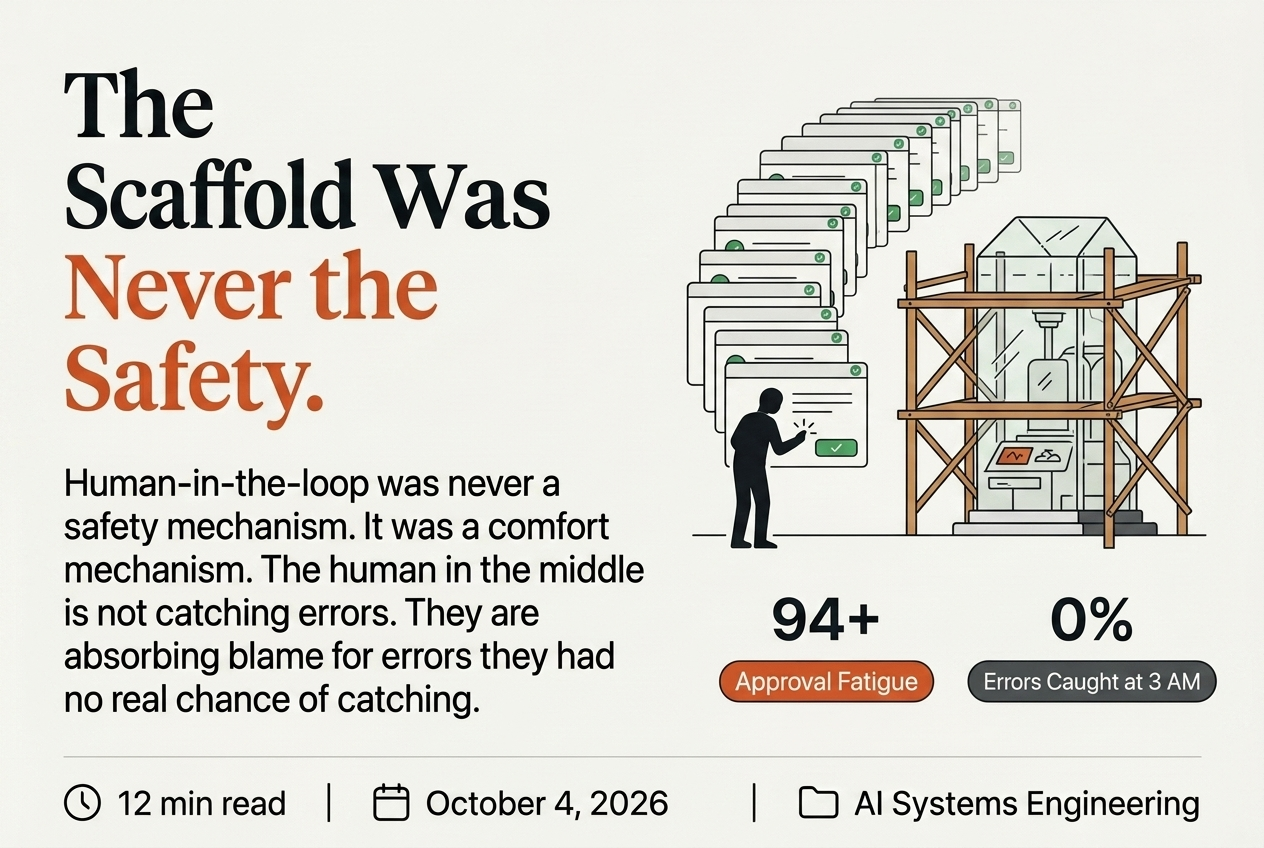
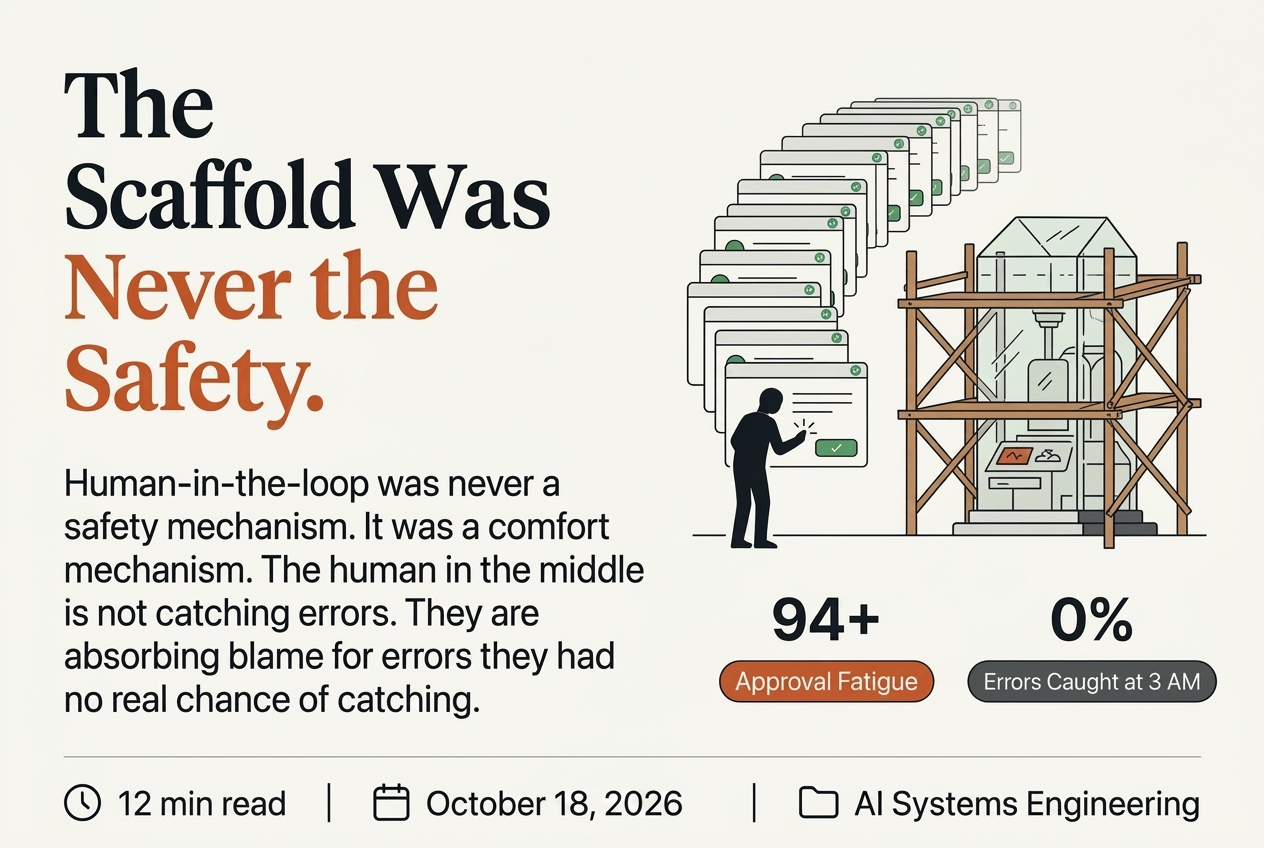
next post added

diff --git a/src/utils/posts.ts b/src/utils/posts.ts
@@ -4,13 +4,30 @@ import { getCollection, type CollectionEntry } from "astro:content";
  * Determines whether a post should be included in the build.
  * In development (import.meta.env.DEV), allows previewing future-dated posts.
  * In production (import.meta.env.PROD), filters out drafts and future-dated posts.
+ *
+ * Comparison uses calendar date only (not time-of-day) so that a post dated
+ * e.g. "2026-09-20 09:00:00 -0400" is included by the 12:17 UTC daily cron
+ * on Sep 20 regardless of the UTC offset in the frontmatter.
  */
 export function isPostPublished(post: CollectionEntry<"posts">): boolean {
   if (post.data.draft) return false;
   if (import.meta.env.PROD) {
     const postDate = new Date(post.data.date);
     const now = new Date();
-    if (postDate > now) {
+    // Compare calendar dates only — strip time component from both sides
+    // so a post whose frontmatter hour exceeds the cron time in UTC still
+    // publishes on the correct day rather than slipping to the next run.
+    const postDay = new Date(
+      postDate.getUTCFullYear(),
+      postDate.getUTCMonth(),
+      postDate.getUTCDate()
+    );
+    const today = new Date(
+      now.getUTCFullYear(),
+      now.getUTCMonth(),
+      now.getUTCDate()
+    );
+    if (postDay > today) {
       return false;
     }
   }

diff --git a/src/content/posts/2026-10-04-you-are-measuring-the-wrong-thing.md b/src/content/posts/2026-10-04-you-are-measuring-the-wrong-thing.md
@@ -1,0 +1,189 @@
+---
+title: "You Are Measuring the Wrong Thing."
+date: 2026-10-04 09:00:00 -0400
+reading_time: 12
+categories: AI systems engineering
+tags: [Token Economics, AI Governance, Agent Loops & Control, Production Systems]
+author: Karim Bhalwani
+excerpt: "Every team tracking AI spend is watching the same number: tokens consumed. It is the wrong number. The right number is cost per successful outcome, and almost nobody has it."
+topics: [token-economics, ai-governance, agent-harness]
+---
+
+![You Are Measuring the Wrong Thing.](/assets/you-are-measuring-the-wrong-thing/hero-main.png)
+
+A finance team pulls up the monthly AI invoice. A hundred and twenty million tokens. $38,000. Someone calls it high. Someone else says the team shipped three features and closed 4,000 support tickets. The meeting ends without agreement, because nobody in the room has a number that connects those two facts.
+
+The token counter tells you what you spent. It says nothing about whether you got anything for it.
+
+Hold that gap. We are coming back to it.
+
+---
+
+In [Route the Intelligence](/writing/2026-05-10-route-the-intelligence), I wrote about the cost of sending every task to the wrong model tier. In [You Don't Maximize Tokens, You Maximize Learning](/writing/2026-08-05-token-maxing-learning), I argued that raw token volume teaches you nothing useful about whether the spend was worth it. Both posts circled the same problem without naming it directly.
+
+The problem is this: the metric everyone is tracking is not the metric that matters.
+
+---
+
+## The Number That Feels Like Progress
+
+Token consumption is easy to count. Providers display it on every invoice. Teams build dashboards around it. Executives ask about it in quarterly reviews.
+
+It has one fatal flaw. It measures activity. Not value.
+
+A team that burns 40 million tokens deploying a reliable agent that resolves 90% of incoming support cases is getting enormous value. A team that burns 40 million tokens deploying an agent that loops through failures, hits self-correction cycles on 60% of tasks, and generates $1.80 of output for every $3.00 of inference spend is losing money with extra steps. The invoice looks identical. The business outcome is not even close.
+
+The metric that matters is cost per successful task. How much did it cost, in total inference spend, to produce one verified, useful output? Not cost per million tokens. Not cost per API call. Cost per resolved support ticket. Cost per merged pull request. Cost per approved contract draft.
+
+That number connects the invoice to the outcome. Without it, you are reading a gas gauge and calling it a trip report.
+
+**Token volume tells you how much fuel you burned. It does not tell you whether you reached the destination.**
+
+![Activity vs. Value: The invoice gap](/assets/you-are-measuring-the-wrong-thing/activity-vs-value.png)
+
+---
+
+## Why Cheaper Tokens Do Not Mean Lower Costs
+
+This is where most architectural decisions go wrong, and it is worth stating precisely.
+
+An agent running on a model priced at $1.00 per million input tokens sounds cheaper than one running at $3.00. In a single-turn interaction, that math is straightforward. In an autonomous execution loop, it is not.
+
+Here is what happens in a real agentic session. The agent receives a task. It reasons. It calls a tool. The tool returns a result. The agent incorporates that result, reasons again, calls another tool. This repeats until the task is done, or until something breaks.
+
+The critical detail: standard completion APIs are stateless. Every turn, the agent re-submits everything that happened before. The system instructions. The full conversation. Every tool call. Every tool result. Every intermediate reasoning step. The context does not carry over. It is retransmitted, from scratch, on each round trip.
+
+In a ten-turn session, you pay for the first exchange ten times. In a thirty-turn session, you pay for the early context thirty times. The token load does not grow linearly. It compounds. By turn thirty, a session carrying a modest 10,000-token base context and an average of 1,500 tokens of new material per turn is processing nearly 900,000 cumulative input tokens. That is eighty times what a single-turn interaction would cost on the same content.
+
+A cheaper model running more turns to reach the same outcome costs more. Not less.
+
+**The agentic multiplier does not care about sticker price. It compounds whatever you put in front of it.**
+
+![The Agentic Multiplier: quadratic context compounding across turns](/assets/you-are-measuring-the-wrong-thing/agentic-multiplier.png)
+
+---
+
+## The Tax You Did Not See Coming
+
+There is a second cost buried inside every agent session, and it comes in three forms. Most teams have measured none of them.
+
+**The MCP Tax: tool schema injection.** When an agent initializes, it receives definitions for every tool it might use—function names, parameter types, descriptions, validation schemas. These get injected into the context on every single turn. Not once. Every turn.
+
+A basic tool server might add 1,000 tokens to each call. A cloud database integration with 40 methods can add 12,000. An enterprise environment running four or five connected services simultaneously carries between 15,000 and 55,000 tokens of tool definition overhead per turn, before any user query or task context is included. In large enterprise catalogs with 100-plus tools, the payload has been measured above 54,000 tokens per turn.
+
+Put numbers on it. An agent handling a 20-turn support workflow, carrying a 15,000-token tool payload, processes 300,000 tokens of API documentation on a single ticket. Tokens describing function signatures the model may never invoke. At production rates, that overhead alone costs roughly $0.90 per ticket. At 100,000 monthly tickets, you have paid $90,000 to repeatedly transmit your tool catalog. The mitigation exists: progressive tool disclosure loads schemas on demand, and sandboxed code execution reduces the schema payload by over 95%. Red Hat's production benchmarks showed a 53% total token reduction by switching from full schema injection to a sandboxed Python model.
+
+**The Skills Tax: instruction payload overhead.** Skills—the structured instruction files that give an agent its persona, its procedures, and its domain knowledge—solve a real problem. They encode expertise so it does not have to live in a developer's head. But they carry a cost that most teams never account for separately.
+
+A skill file describing a support triage procedure might run 2,000 tokens. A coding agent loaded with five active skills—security review, test writing, documentation, code style, and escalation procedures—carries 8,000 to 15,000 tokens of instruction payload before any task content appears. Multiplied across a 30-turn session, that static overhead processes between 240,000 and 450,000 tokens that describe what the agent should do, not what it is actually doing. In [Stop Renting the Intelligence](/writing/2026-07-19-stop-renting-the-intelligence), the architecture that compounds correctly is the one that bakes context into weights rather than re-sending it on every call. Skills injected as prompt text are the re-sending model. Skills encoded as fine-tuned adapters are the ownership model. The token math is different.
+
+**The Tool Result Tax: verbose environmental payloads.** Every time an agent calls a tool, the result comes back into the context. A database query returning a formatted 200-row result set. A terminal command producing 3,000 lines of build log. A web fetch returning full HTML before the relevant two sentences are extracted. These are not errors. They are how most tools behave by default, and every one of those tokens re-transmits on the next turn.
+
+Compressing tool results—extracting only what the model needs before passing it back into context—is one of the highest-leverage optimizations available. It does not require switching models. It does not require architectural changes. It requires measuring what tool results actually cost and deciding what the model actually needs to see.
+
+Taken together, MCP schemas, skill payloads, and tool result verbosity are a hidden tax that compounds with every turn. In production agentic systems, this overhead regularly accounts for 40 to 70 percent of total token consumption on a given session. The model spend on actual reasoning is often the minority of the bill.
+
+**You cannot optimize what you have not measured. Most teams have never separated the tax from the work.**
+
+---
+
+## The Real Benchmark Is Not the One You Think
+
+Software engineering benchmarks have become the clearest available window into what cost per successful task actually looks like in practice.
+
+On SWE-bench, a standard evaluation where agents attempt to resolve real GitHub issues by generating patches that pass hidden test suites, the data tells a consistent story. Success rate matters far more than token price.
+
+Early agent configurations on GPT-4 resolved less than 1% of tasks. Each attempt cost around $0.24. The effective cost per resolved issue, accounting for the failures, was over $30. A simpler architecture at $0.05 per attempt delivered a lower cost per fix, not because it was smarter, but because it failed less catastrophically.
+
+Current frontier configurations tell a different story. Agents achieving 75 to 80% solve rates spend between $0.07 and $0.75 per attempt, yielding $0.09 to $1.00 per resolved task. The model priced at half the per-token rate does not automatically win. If it loops through more self-correction cycles to reach a working patch, its effective cost per resolved output climbs past the more expensive model that solved it in fewer turns.
+
+This is the trap: optimizing for the rate card without measuring the resolution rate. The cheapest token is not the cheapest outcome.
+
+METR's Expenditure Horizon adds a harder constraint. Across open-ended machine learning optimization tasks, autonomous agents are cost-effective at low budgets. Below a few hundred dollars, agents implement improvements efficiently. Beyond $600 to $3,300 in total spend, the returns flatten. Human researchers become more cost-effective. The L-shaped curve appears consistently across model families and task types. Spending more does not produce proportionally more. At some point, it produces almost nothing.
+
+The expenditure horizon is not a criticism of AI capability. It is a boundary condition that every team allocating budget to autonomous systems should have mapped for their own workloads.
+
+**Cost per successful task. Resolution rate. Expenditure horizon. These are the numbers that govern whether an agent is worth running.**
+
+---
+
+## Why 42% of Projects Stall
+
+Gartner forecast that at least 30% of generative AI projects would be abandoned after the proof-of-concept phase. S&P Global's enterprise data put that number at 42%, up from 17% the prior year. McKinsey found that while 88% of organizations were using AI in at least one function, only 39% could connect any of it to a measurable impact on earnings.
+
+The gap between proof of concept and production is not a capability gap. The models are capable. The gap is measurement.
+
+A proof of concept runs on enthusiasm and demo conditions. The agent resolves the scenario it was built to resolve. It looks compelling. The business case is written around what it could do if scaled.
+
+Then it goes to production. It encounters data it was not tested on. Edge cases accumulate. The token bill arrives. Finance asks for ROI. Nobody has a cost per successful outcome to share, because nobody built the instrumentation to measure it. The project stalls not because the technology failed, but because the organization cannot answer the question the CFO is asking.
+
+A team that can say "our support agent resolves 84% of incoming tickets at $0.73 each, compared to $11.40 per ticket with the previous team structure" is having a different conversation than a team that says "we spent $380,000 on tokens last quarter."
+
+Both teams built the same agent. One measured it.
+
+**The gap between proof of concept and production is not a model problem. It is a measurement problem.**
+
+---
+
+## What a TokenOps Practice Actually Looks Like
+
+Cloud FinOps solved a version of this problem between 2015 and 2020. When compute moved from data centers to elastic cloud APIs, companies lost visibility into what they were spending and why. The FinOps discipline emerged to restore that visibility: tag resources, attribute costs to teams and products, measure unit economics, govern spend against business outcomes.
+
+Autonomous AI agents recreate that problem at the workflow level. The same structural gaps: decentralized consumption, invisible unit costs, no direct line from the invoice to the outcome.
+
+The operational response follows the same pattern, even if the mechanics differ. Cloud infrastructure costs scale with uptime. Inference costs scale with context depth and output generation, and compound quadratically inside an agentic loop. The governance discipline has to account for that.
+
+Three phases, in order.
+
+**Visibility first.** Every API call that leaves your systems carries metadata. Which agent made it. Which workflow it belongs to. Which team or product it serves. Whether the task resolved. An AI gateway layer intercepts and tags traffic before it reaches the provider. You cannot manage what you cannot attribute. The most common failure mode in enterprise AI spend is a single invoice with no allocation to cost centers, products, or outcomes. Fix attribution before you touch anything else.
+
+**Measurement second.** You track cost per successful outcome, not cost per call. You instrument resolution rates per workflow type. You measure loop stagnation: how often an agent iterates without converging, because every stagnant loop is spend without output. If your instrumentation cannot tell you whether a session produced a verified result, you do not have cost measurement. You have billing data.
+
+**Governance third.** Budget limits by team and workflow. Routing policies that direct routine work to cheaper model tiers and escalate to frontier capability only when complexity warrants it—which is exactly what [Route the Intelligence](/writing/2026-05-10-route-the-intelligence) established as the starting point. Circuit breakers that halt sessions when spend exceeds a threshold without a resolution signal. Not to cap the system arbitrarily, but because an agent running past its expenditure horizon is burning budget on work that a human would resolve faster.
+
+The tooling exists. OpenTelemetry semantic conventions for generative AI provide vendor-agnostic token tracing. Langfuse provides granular cost attribution per prompt version and execution step. AI gateway layers like Portkey or LiteLLM enforce budget hard-caps by team or workflow. The technology is available. What is missing is the organizational decision to make cost per successful outcome a first-class metric, owned by someone, tracked in every review.
+
+**Visibility. Measurement. Governance. In that order. The decision is organizational, not technical.**
+
+![TokenOps Practice: Visibility, Measurement, Governance](/assets/you-are-measuring-the-wrong-thing/tokenops-governance.png)
+
+---
+
+## The Question to Ask Before the Next Invoice Arrives
+
+You will receive an API bill for your AI systems next month. The number on it will be expressed in dollars and tokens. It will not tell you whether any of the output was useful.
+
+Before that bill arrives, three questions are worth answering with specificity.
+
+What does a successful task look like in each workflow your agents run, and do you have a programmatic way to detect it? If you cannot define done in a form the system can verify, you cannot measure cost per resolution. You are back to token volume, and the CFO conversation ends the same way it started: inconclusive.
+
+What is your resolution rate by workflow type? A 90% resolution rate on simple classification and a 40% rate on complex document analysis have completely different economics. The aggregate number hides both. You need the breakdown to know where you are over-spending and where you should invest more.
+
+Where does marginal spend stop producing marginal value? METR's expenditure horizon applies at the task level. Every session has a point where more turns produce diminishing returns. If you can detect loop stagnation, you can set a principled stopping rule. If you cannot, you are waiting for the session to time out and billing for the wait.
+
+The teams that will build durable AI practices are not the ones that spend the most on tokens. They are the ones that know what they spent it on, which outcomes it produced, and where the marginal return crossed below the cost of running another turn.
+
+Back to the finance meeting from the opening. A hundred and twenty million tokens. $38,000. Three features. Four thousand support tickets.
+
+The team that cannot connect those numbers is hoping for credit. The team that can—resolution rate, cost per ticket, improvement over baseline, expenditure horizon by workflow—is asking for more budget, with evidence that it will compound.
+
+**You will not defend AI spend with a token count. You will defend it with an outcome.**
+
+---
+
+## Resources & Next Steps
+
+- [METR Expenditure Horizon: Measuring Optimization Ability](https://metr.org/blog/2026-07-21-expenditure-horizon/). The framework for measuring when autonomous agent spend crosses into diminishing returns and human effort becomes more economical.
+- [SWE-bench Leaderboard](https://www.swebench.com/). Cost-per-resolved-task data across agent architectures and model tiers.
+- [Dynamic Tool Gating and Lazy Schema Loading (arXiv:2604.21816)](https://arxiv.org/html/2604.21816v1). The research behind progressive tool disclosure and quantified MCP Tax measurements.
+- [Sandboxed Python Reduces Tool Schema Overhead — Red Hat Emerging Tech](https://next.redhat.com/2026/04/23/how-sandboxed-python-reduces-tool-schema-overhead-in-ai-agents/). The production benchmark showing 53% total token reduction.
+- [Langfuse: Token and Cost Tracking](https://langfuse.com/docs/observability/features/token-and-cost-tracking). Open-source cost attribution at the trace and prompt version level.
+- [OpenTelemetry GenAI Semantic Conventions](https://opentelemetry.io/blog/2024/otel-generative-ai/). The vendor-agnostic standard for instrumenting agent token consumption across providers.
+- [FinOps for AI Overview — FinOps Foundation](https://www.finops.org/wg/finops-for-ai-overview/). The cloud FinOps parallel and emerging TokenOps working group framework.
+- Related post: [Route the Intelligence, Not Just the Context.](/writing/2026-05-10-route-the-intelligence)
+- Related post: [The Skill Your Agent Should Never Have Learned.](/writing/2026-09-20-the-skill-your-agent-should-never-have-learned)
+- Related post: [You Don't Maximize Tokens. You Maximize Learning.](/writing/2026-08-05-token-maxing-learning)
+- Related post: [Building the Control Layer.](/writing/2026-04-26-building-the-control-layer)
+- Related post: [Your Chatbot Hallucinated. Your Agent Passed the Test. Both Are Wrong.](/writing/2026-08-22-your-agent-passed-the-test)
+
+---

diff --git a/src/content/posts/2026-10-18-the-scaffold-was-never-the-safety.md b/src/content/posts/2026-10-18-the-scaffold-was-never-the-safety.md
@@ -1,7 +1,6 @@
 ---
-layout: post
 title: "The Scaffold Was Never the Safety."
-date: 2026-10-04 08:00:00 -0400
+date: 2026-10-18 08:00:00 -0400
 reading_time: 12
 categories: AI systems engineering
 tags: [Agent Loops & Control, AI Governance, Production Systems, Agent Harness]
@@ -149,3 +148,4 @@ Stop adding approval gates. Start designing systems where the gates you keep are
 - Related post: [Building the Control Layer.](/writing/2026-04-26-building-the-control-layer)
 - Related post: [Your Chatbot Hallucinated. Your Agent Passed the Test.](/writing/2026-08-22-your-agent-passed-the-test)
 - Related post: [The Agents Work. The Organization Does Not.](/writing/2026-03-13-the-agents-work-the-organization-does-not)
+- Related post: [You Are Measuring the Wrong Thing.](/writing/2026-10-04-you-are-measuring-the-wrong-thing)

diff --git a/src/content/posts/2026-09-20-the-skill-your-agent-should-never-have-learned.md b/src/content/posts/2026-09-20-the-skill-your-agent-should-never-have-learned.md
@@ -1,5 +1,4 @@
 ---
-layout: post
 title: "The Skill Your Agent Should Never Have Learned."
 date: 2026-09-20 08:00:00 -0400
 reading_time: 7
